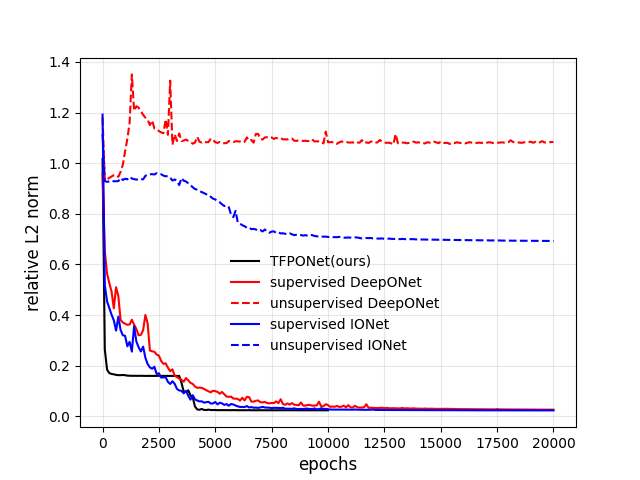
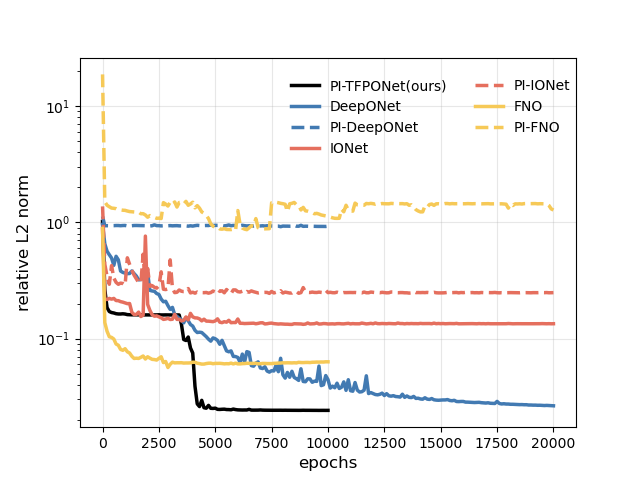
plot relative l2 norm w.r.t runing time

diff --git a/DeepONet-type/2d-L-shaped/makeplot.py b/DeepONet-type/2d-L-shaped/makeplot.py
@@ -28,23 +28,52 @@ def plot_domain_with_L_hole_no_line():
     plt.show()
 
 # plot the domain with L-shaped hole
-plot_domain_with_L_hole_no_line()
+# plot_domain_with_L_hole_no_line()
 
-tfponet_loss = np.load(r'DeepONet-type\2d-L-shaped\saved_data\rel_l2_history.npy')
-supervised_deeponet_loss = np.load(r'DeepONet-type\2d-L-shaped\saved_data\supervised_deeponet_rel_l2_history.npy')
-unsupervised_deeponet_loss = np.load(r'DeepONet-type\2d-L-shaped\saved_data\unsupervised_deeponet_rel_l2_history.npy')
-supervised_ionet_loss = np.load(r'DeepONet-type\2d-L-shaped\saved_data\supervised_ionet_rel_l2_history.npy')
-unsupervised_ionet_loss = np.load(r'DeepONet-type\2d-L-shaped\saved_data\unsupervised_ionet_rel_l2_history.npy')
+tfponet_loss = np.load('DeepONet-type/2d-L-shaped/saved_data/rel_l2_history.npy')
+supervised_deeponet_loss = np.load('DeepONet-type/2d-L-shaped/saved_data/supervised_deeponet_rel_l2_history.npy')
+unsupervised_deeponet_loss = np.load('DeepONet-type/2d-L-shaped/saved_data/unsupervised_deeponet_rel_l2_history.npy')
+supervised_ionet_loss = np.load('DeepONet-type/2d-L-shaped/saved_data/supervised_ionet_rel_l2_history.npy')
+unsupervised_ionet_loss = np.load('DeepONet-type/2d-L-shaped/saved_data/unsupervised_ionet_rel_l2_history.npy')
+supervised_fno_loss = np.load('DeepONet-type/2d-L-shaped/saved_data/supervised_fno_rel_l2_history.npy')
+unsupervised_fno_loss = np.load('DeepONet-type/2d-L-shaped/saved_data/unsupervised_fno_rel_l2_history.npy')
 
-plt.plot(np.arange(0, len(tfponet_loss)*100, 100), tfponet_loss, linewidth=1.5, label='TFPONet(ours)', color='black', linestyle='-')
-plt.plot(np.arange(0, len(supervised_deeponet_loss)*100, 100), supervised_deeponet_loss, linewidth=1.5, label='supervised DeepONet', color='red', linestyle='-')
-plt.plot(np.arange(0, len(unsupervised_deeponet_loss)*100, 100), unsupervised_deeponet_loss, linewidth=1.5, label='unsupervised DeepONet', color='red', linestyle='--')
-plt.plot(np.arange(0, len(supervised_ionet_loss)*100, 100), supervised_ionet_loss, linewidth=1.5, label='supervised IONet', color='blue', linestyle='-')
-plt.plot(np.arange(0, len(unsupervised_ionet_loss)*100, 100), unsupervised_ionet_loss, linewidth=1.5, label='unsupervised IONet', color='blue', linestyle='--')
-plt.legend(frameon=False, bbox_to_anchor=(0.75, 0.5))
+plt.plot(np.arange(0, len(tfponet_loss)*100, 100), tfponet_loss, linewidth=2.5, label='PI-TFPONet(ours)', color='black', linestyle='-')
+plt.plot(np.arange(0, len(supervised_deeponet_loss)*100, 100), supervised_deeponet_loss, linewidth=2.5, label='DeepONet', color='#427AB2', linestyle='-')
+plt.plot(np.arange(0, len(unsupervised_deeponet_loss)*100, 100), unsupervised_deeponet_loss, linewidth=2.5, label='PI-DeepONet', color='#427AB2', linestyle='--')
+plt.plot(np.arange(0, len(supervised_ionet_loss)*100, 100), supervised_ionet_loss, linewidth=2.5, label='IONet', color='#E56F5E', linestyle='-')
+plt.plot(np.arange(0, len(unsupervised_ionet_loss)*100, 100), unsupervised_ionet_loss, linewidth=2.5, label='PI-IONet', color='#E56F5E', linestyle='--')
+plt.plot(np.arange(0, len(supervised_fno_loss)*100, 100), supervised_fno_loss, linewidth=2.5, label='FNO', color='#F6C957', linestyle='-')
+plt.plot(np.arange(0, len(unsupervised_fno_loss)*100, 100), unsupervised_fno_loss, linewidth=2.5, label='PI-FNO', color='#F6C957', linestyle='--')
+plt.legend(frameon=False, bbox_to_anchor=(0.4, 0.7), ncol=2)
 plt.grid(True, alpha=0.3)
 plt.xlabel('epochs', fontsize=12)
 plt.ylabel('relative L2 norm', fontsize=12)
-plt.savefig(r'DeepONet-type\2d-L-shaped\saved_data\2d-L-shaped_all_rel_l2_history.png')
 plt.yscale('log')
+plt.savefig('DeepONet-type/2d-L-shaped/saved_data/2d-L-shaped_all_rel_l2_history.png')
+plt.show()
+
+dt_tfpnet = 0.25
+dt_deeponet = 0.05
+dt_pideeponet = 0.36
+dt_ionet = 0.06
+dt_piionet = 0.37
+dt_fno = 0.45
+dt_pifno = 1.38
+T = 2000
+
+fig = plt.figure()
+plt.scatter(np.arange(0, T+1, dt_tfpnet*100), tfponet_loss[:int(T/(dt_tfpnet*100)+1)], label='PI-TFPONet(ours)', color='black')
+plt.scatter(np.arange(0, T+1, dt_pideeponet*100), unsupervised_deeponet_loss[:int(T/(dt_pideeponet*100)+1)], linewidth=2.5, label='PI-DeepONet', color='#427AB2', linestyle='--')
+plt.scatter(np.arange(0, T+1, dt_piionet*100), unsupervised_ionet_loss[:int(T/(dt_piionet*100)+1)], linewidth=2.5, label='PI-IONet', color='#E56F5E', linestyle='--')
+plt.scatter(np.arange(0, T+1, dt_pifno*100), unsupervised_fno_loss[:int(T/(dt_pifno*100)+1)], linewidth=2.5, label='PI-FNO', color='#F6C957', linestyle='--')
+plt.legend(bbox_to_anchor=(0.6, 0.7))
+plt.grid(True, alpha=0.3)
+plt.xlabel('runtime(s)', fontsize=12)
+plt.ylabel('relative L2 norm', fontsize=12)
+plt.xscale('log')
+plt.yscale('log')
+ax = plt.gca()
+ax.set_facecolor('#F2F2F2')
+plt.savefig('DeepONet-type/2d-L-shaped/saved_data/2d-L-shaped_all_rel_l2_time.png')
 plt.show()
